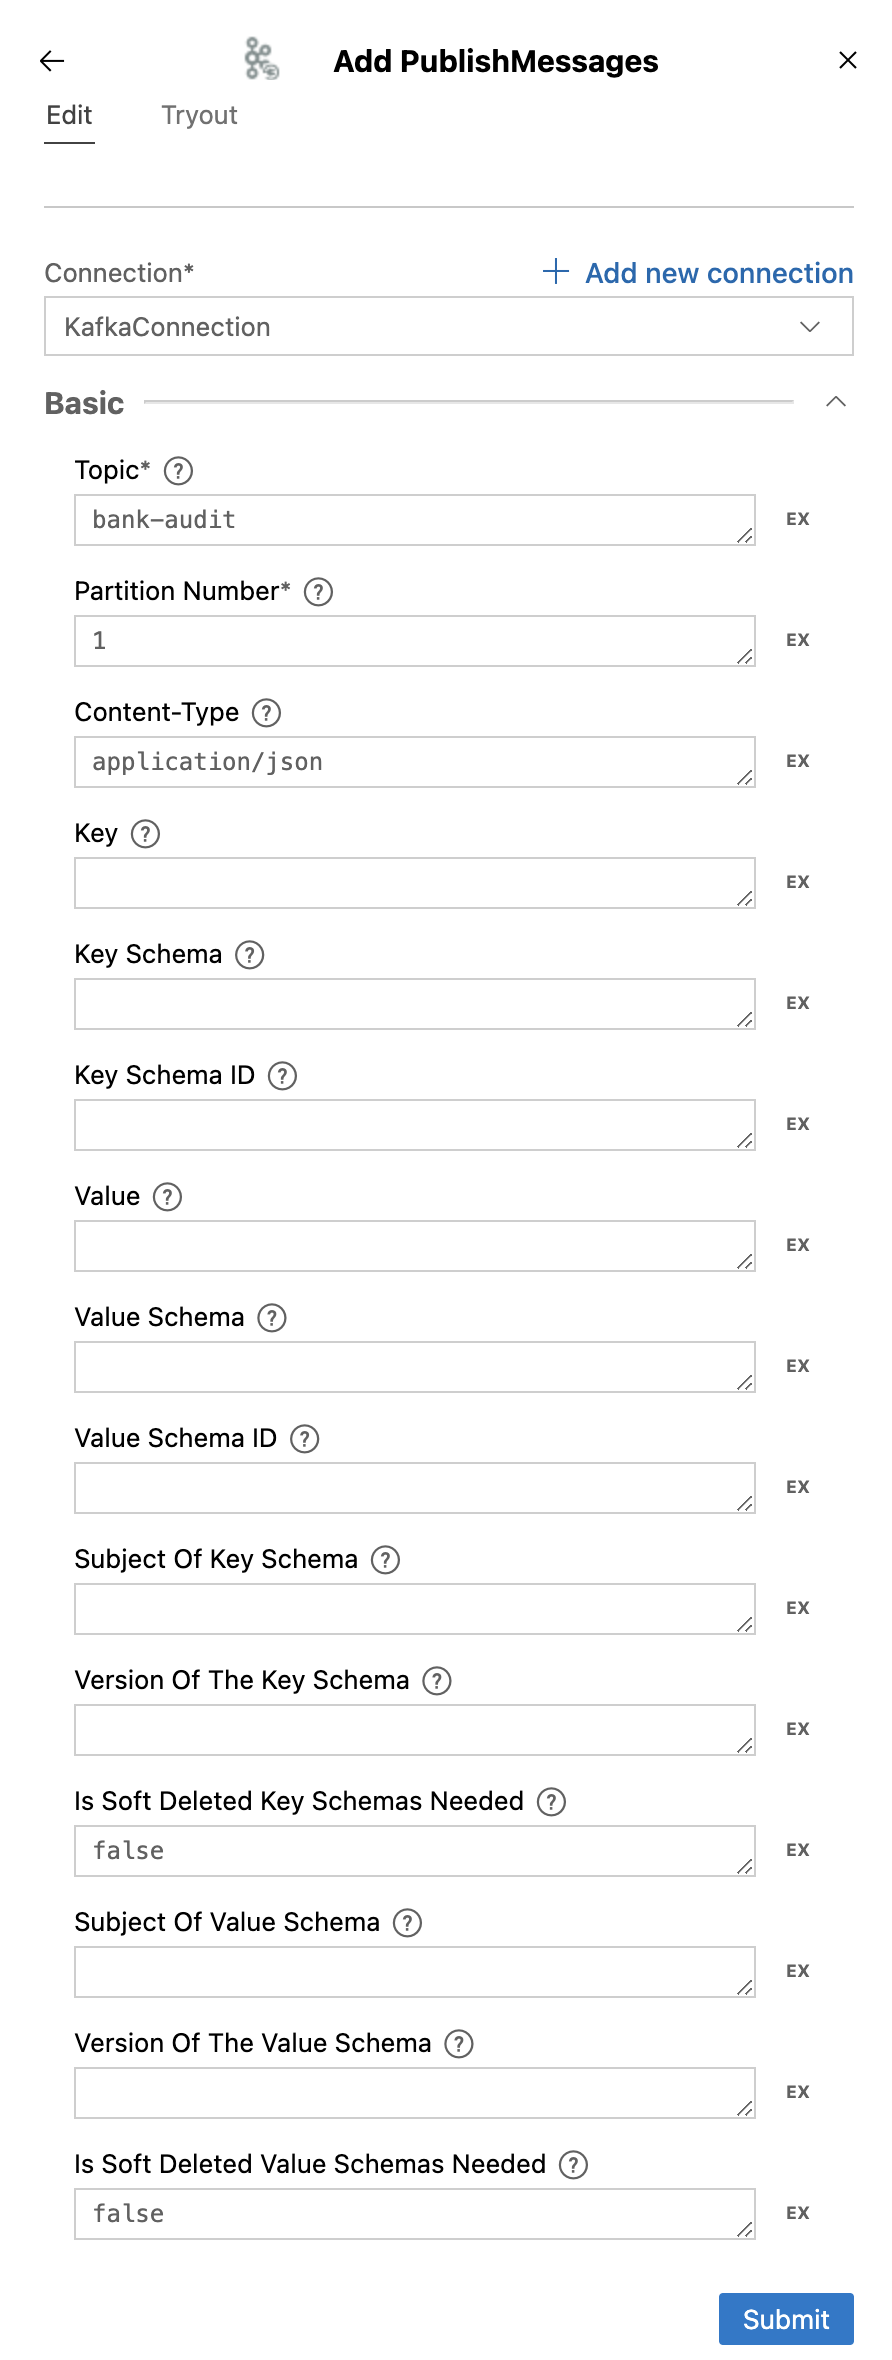
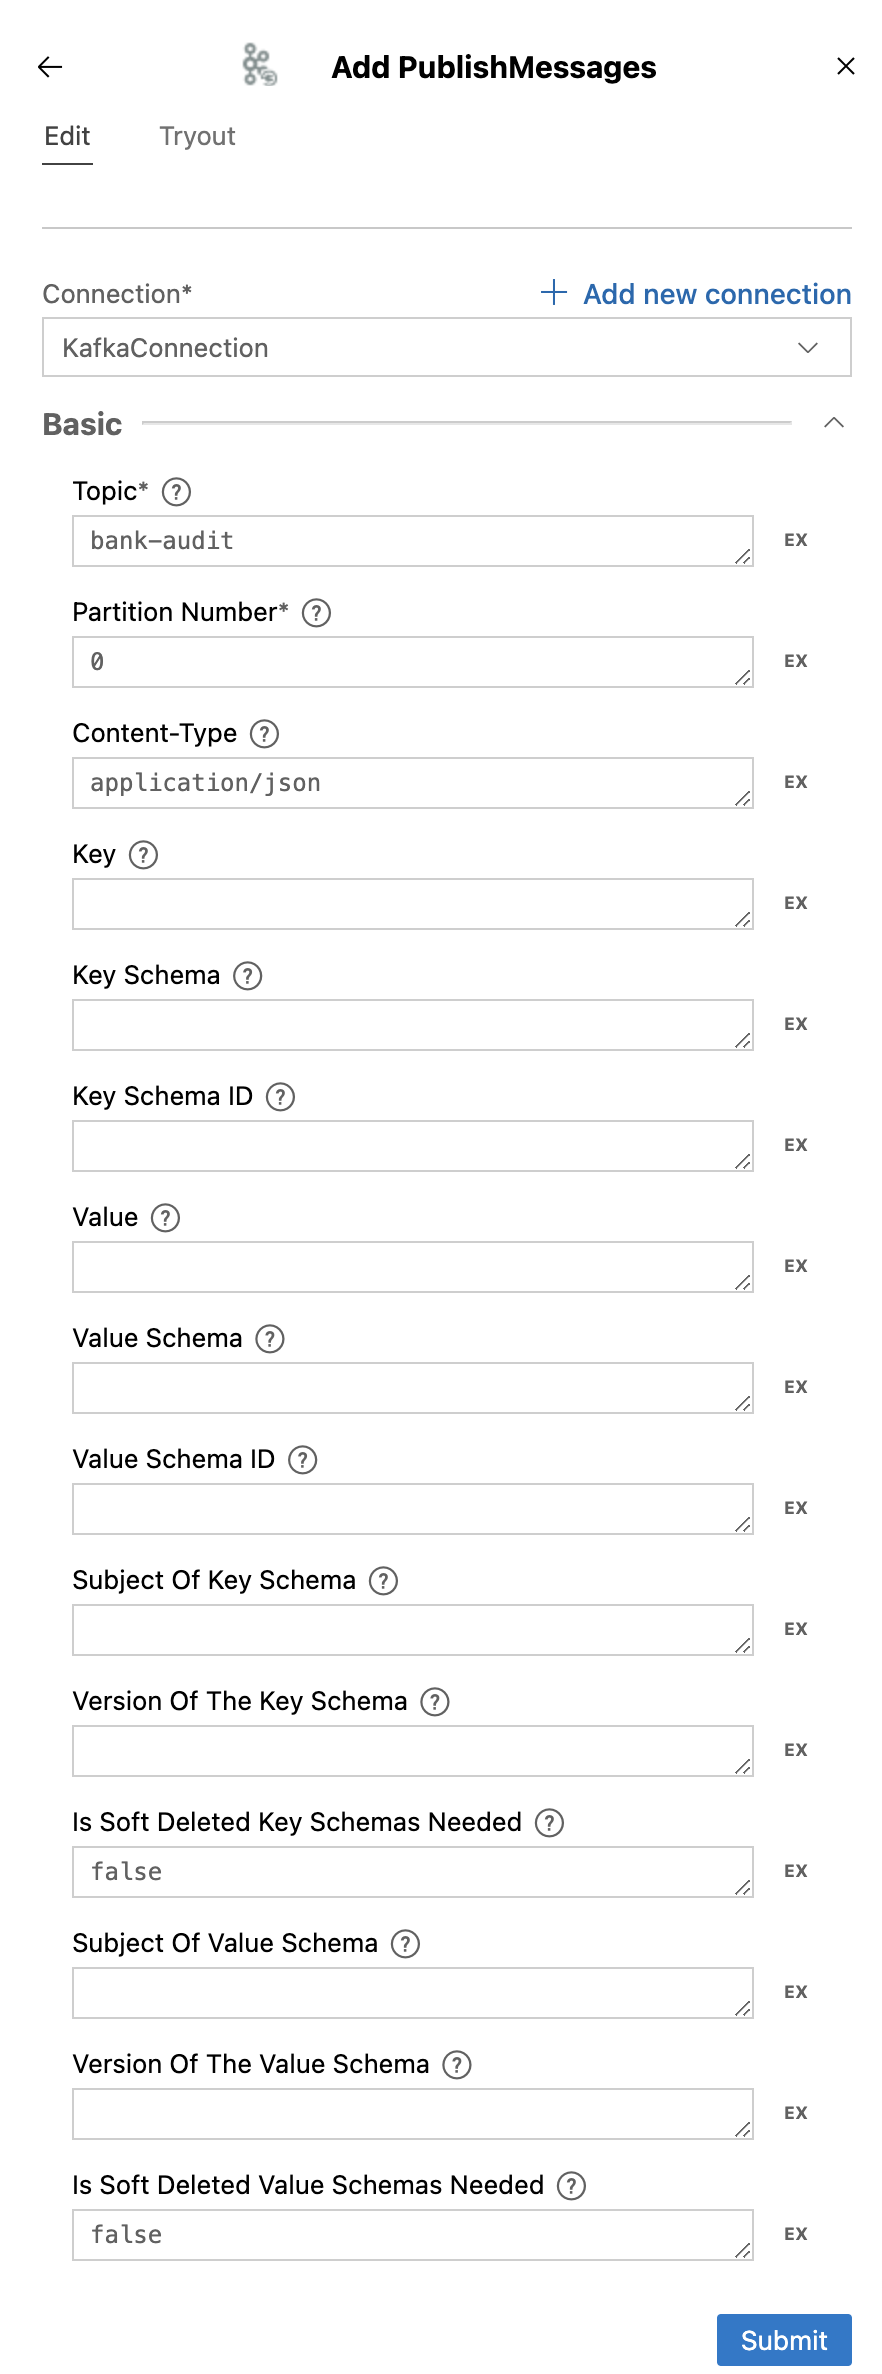
Update event integration doc

diff --git a/en/docs/get-started/event-driven-integrations.md b/en/docs/get-started/event-driven-integrations.md
@@ -179,7 +179,7 @@ Now it's time to design your integration. This defines the underlying logic that
 4. Under **Mediators**, select the **Log** mediator.
 
     !!! Tip  
-        You can use the **Log** mediator to print the message content to the server logs. This is helpful for checking what data is being received and for debugging during development.
+        You can use the <a target="_blank" href="{{base_path}}/reference/mediators/log-mediator/">Log mediator</a> to print the message content to the server logs. This is helpful for checking what data is being received and for debugging during development.
 
     <a href="{{base_path}}/assets/img/get-started/event-integration/select_log_mediator.png"><img src="{{base_path}}/assets/img/get-started/event-integration/select_log_mediator.png" alt="Create New Project" width="80%"></a>
 
@@ -235,7 +235,7 @@ Now it's time to design your integration. This defines the underlying logic that
 
     <a href="{{base_path}}/assets/img/get-started/event-integration/kafka_add_new_connection_btn.png"><img src="{{base_path}}/assets/img/get-started/event-integration/kafka_add_new_connection_btn.png" alt="Create New Project" width="80%"></a>
 
-15. Select `KAFKA` and fill in the following details to create a connection to the Kafka broker. Finally, click **Add** in the **Add New Connection** form to complete the connection setup.
+15. Select `KAFKA` and fill in the following details to create a connection to the Kafka broker. Then, click **Add** in the **Add New Connection** form to complete the connection setup. In the next step, we will configure the operational-level parameters, such as the topic to which the messages will be published.
 
     | Property            | Value                   |
     |---------------------|-------------------------|
@@ -255,7 +255,7 @@ Now it's time to design your integration. This defines the underlying logic that
     | Property            | Value                   |
     |---------------------|-------------------------|
     | **Topic** | `bank-audit`        |
-    | **Partition Number**        | `1` |
+    | **Partition Number**        | `0` |
     | **Content-Type** | `application/json` |
 
     <a href="{{base_path}}/assets/img/get-started/event-integration/kafka_set_publish_params.png"><img src="{{base_path}}/assets/img/get-started/event-integration/kafka_set_publish_params.png" alt="Create New Project" width="30%"></a>
@@ -334,7 +334,7 @@ You have successfully completed the integration flow to listen to Kafka events a
             </payloadFactory>
             <kafkaTransport.publishMessages configKey="KafkaConnection">
                 <topic>bank-audit</topic>
-                <partitionNo>1</partitionNo>
+                <partitionNo>0</partitionNo>
                 <contentType>application/json</contentType>
                 <key></key>
                 <keySchema></keySchema>
@@ -415,7 +415,20 @@ Once the Micro Integrator runtime is up and running, follow the steps below to p
     [2025-04-03 09:49:23,029]  INFO {LogMediator} - Kafka event received, data = {"id":"TXN011","type":"withdraw","accountId":"ACC456","amount":1500}
     ```
 
-5. Verify that the command line prompt monitoring the `bank-audit` topic now displays a new entry with the transformed message.
+5. Verify that the command line prompt monitoring the `bank-audit` topic now displays a new entry with the transformed message. You may see a message similar to the following:
+
+    ```json
+    {
+        "eventType":"transaction",
+        "source":"bank-transactions",
+        "data":{
+            "id":"TXN011",
+            "type":"withdraw",
+            "accountId":"ACC456",
+            "amount":1500
+        }
+    }
+    ```
 
 Congratulations! You’ve now learned how to create an event-driven integration using Kafka and apply message transformation using WSO2 Micro Integrator. This is a powerful pattern for building scalable, real-time systems.
 
